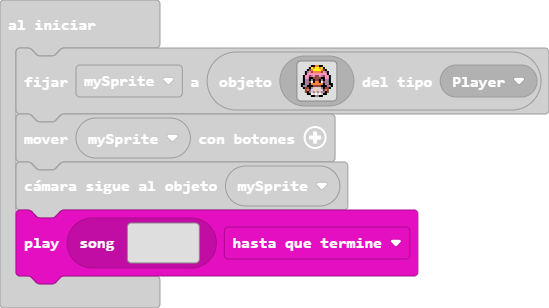
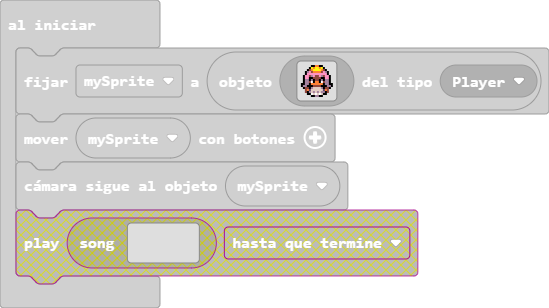
..

Changed region(s): [[0.031, 0.6721, 0.7741, 0.9351]]

diff --git a/main.ts b/main.ts
@@ -18,4 +18,3 @@ let mySprite = sprites.create(img`
     `, SpriteKind.Player)
 controller.moveSprite(mySprite)
 scene.cameraFollowSprite(mySprite)
-music.play(music.createSong(hex`00780004080200`), music.PlaybackMode.UntilDone)
